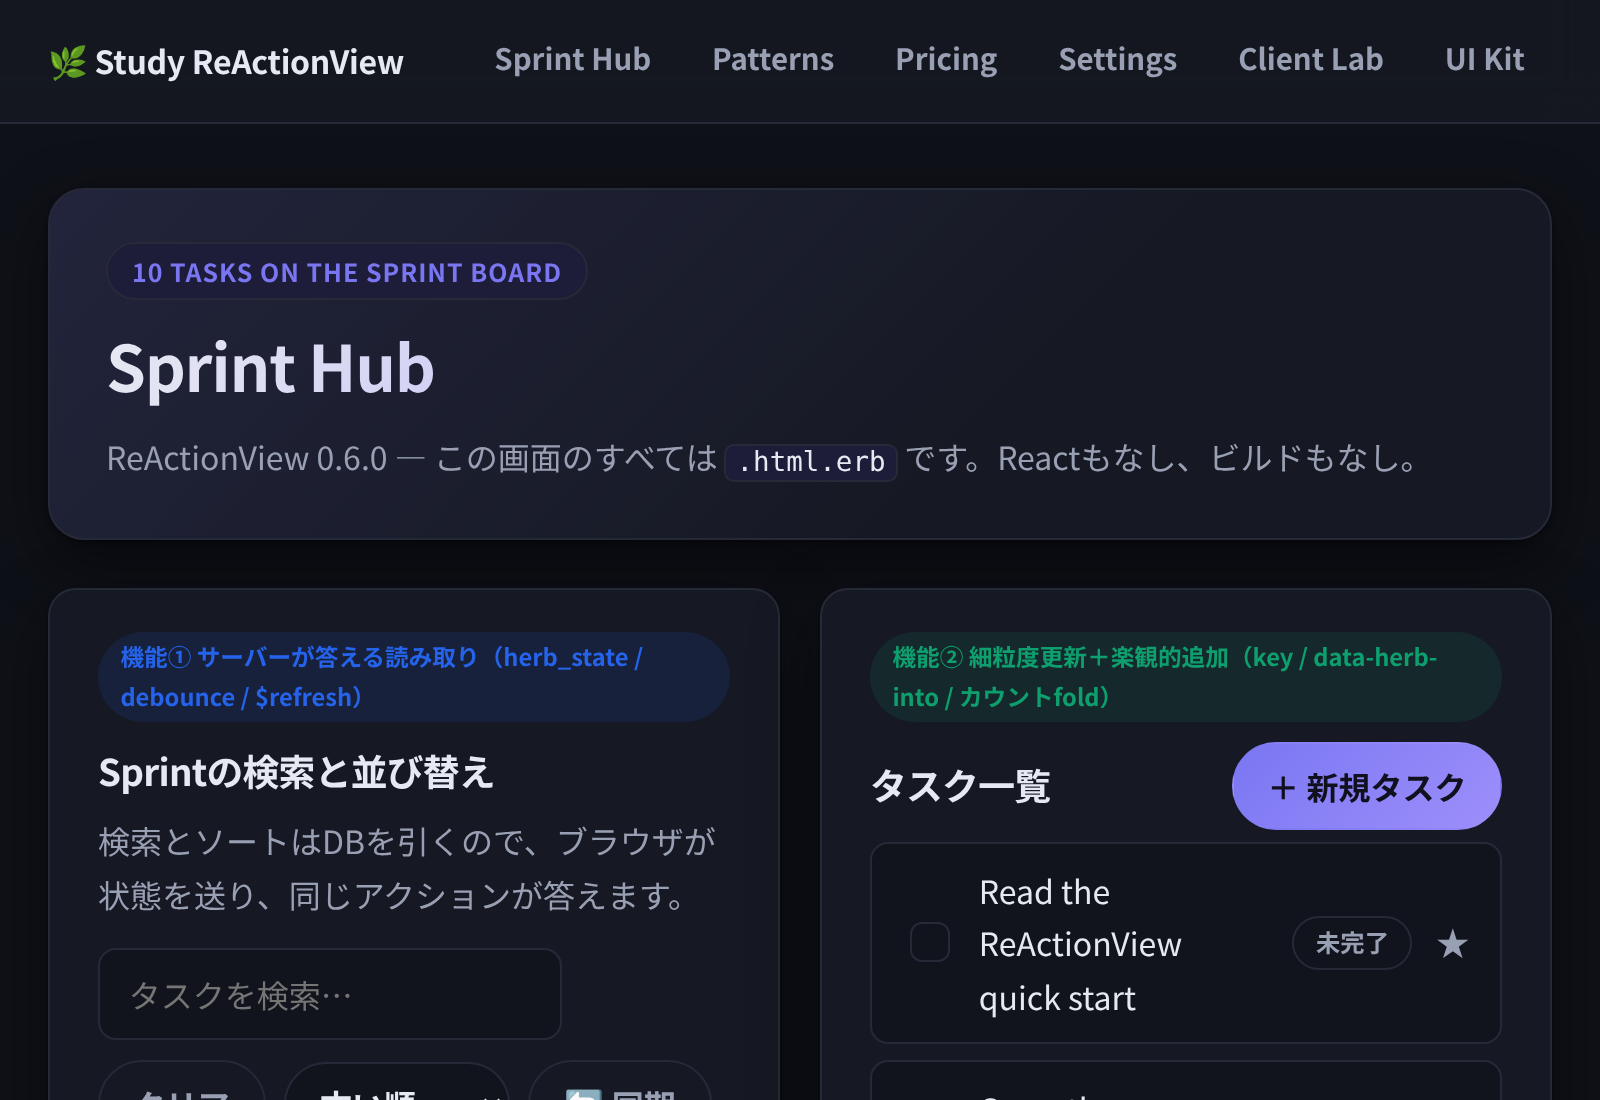
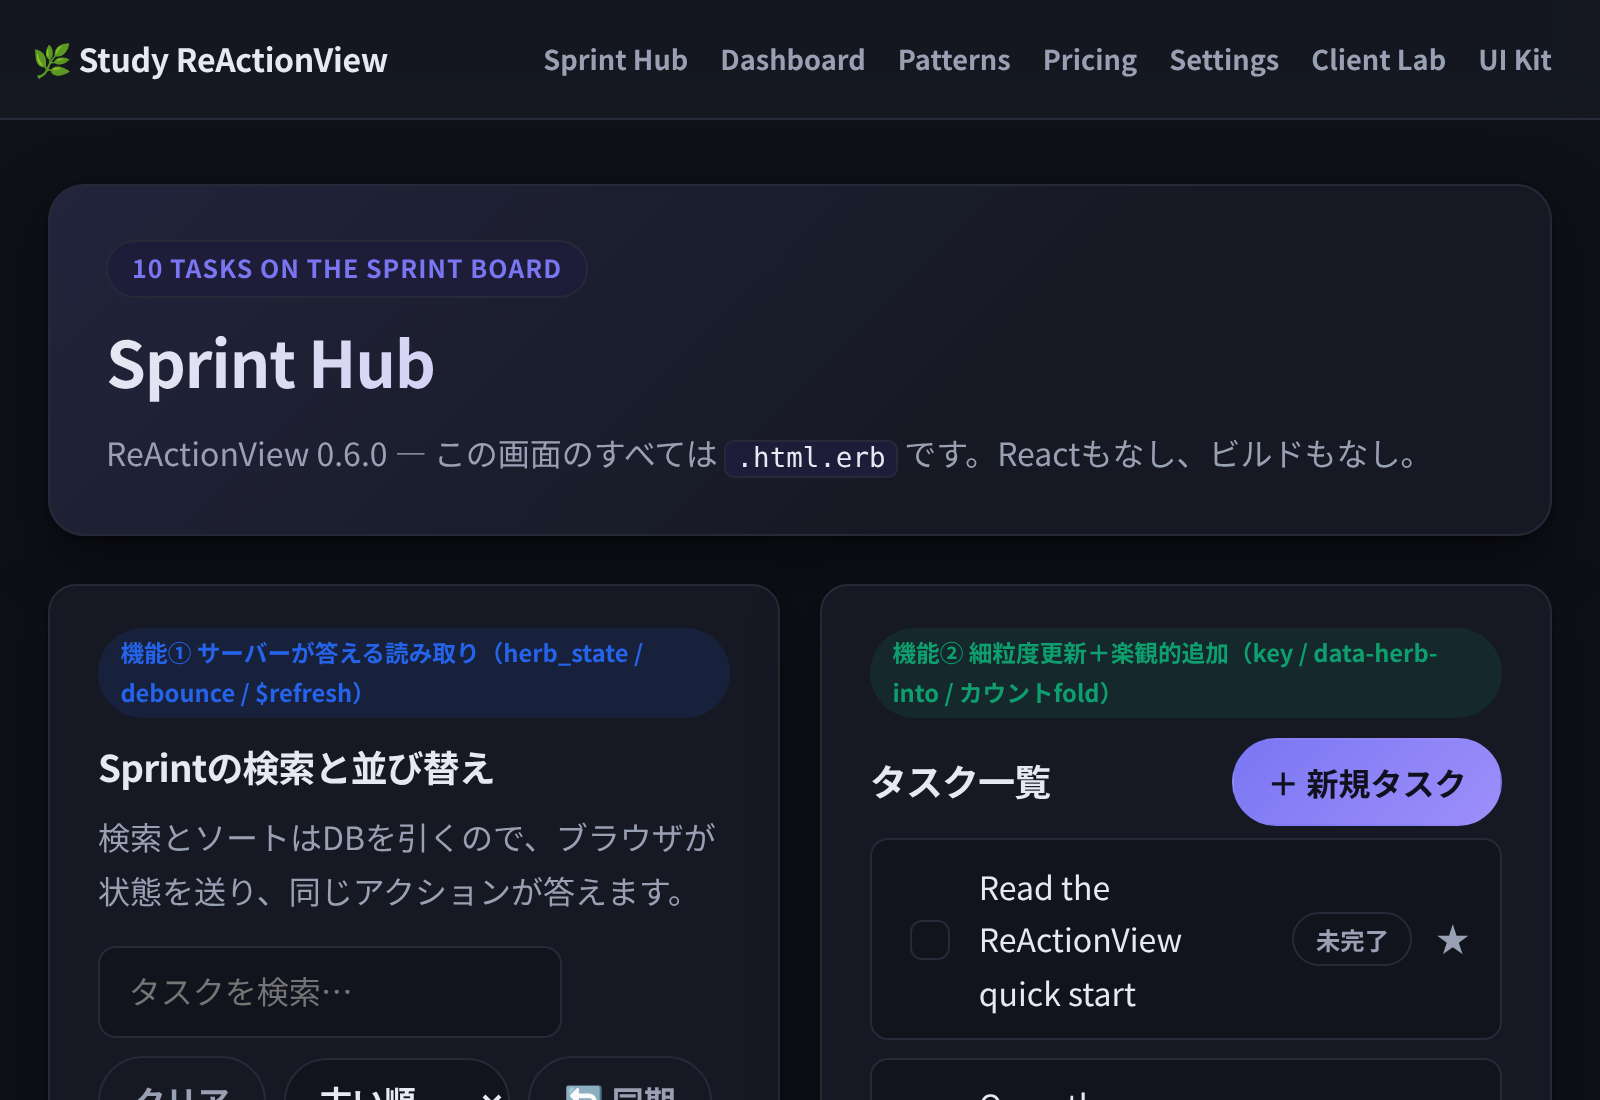
docs(dashboard): 7画面のドキュメントと7リンクナビのメディアを更新 — Dashboardを全体のショーケースに組み込むため
READMEの画面表と機能⑱〜㉑、Hotwire対比の証明マップと境界、AGENTSの実測メモを追加し、既存のナビ付きメディアを7リンクで撮り直した。LazyとFragmentの0.6.0ギャップ、Asyncのinline化、未使用partialの削除を含む。

diff --git a/test/controllers/dashboard_controller_test.rb b/test/controllers/dashboard_controller_test.rb
@@ -123,7 +123,7 @@ class DashboardFlowTest < ActionDispatch::IntegrationTest
     assert_equal "string", focus["kind"]
     assert_equal "all", focus["value"]
 
-    fragment = manifest.dig("states", "fragments").values.find { |entry| entry["on"] == ["focus"] }
+    fragment = manifest.dig("states", "fragments").values.find { |entry| entry["on"] == [ "focus" ] }
     assert fragment, "the Fragment is registered"
     assert fragment["reads"].all? { |read| read.is_a?(Integer) }
     assert_includes manifest.dig("states", "server", "reads").keys, "focus"

diff --git a/AGENTS.md b/AGENTS.md
@@ -17,6 +17,8 @@
 （docs/hotwire-comparison.md の対比5）。
 6画面目 `Settings`（`/settings`）: client mode の設定フォーム。3タブ・依存フィールド・明示 dirty・
 デモ保存を、全操作 0 往復で扱う（下の実測メモ）。
+7画面目 `Dashboard`（`/dashboard`）: client mode の遅延ダッシュボード。Async 2本・Lazy・Fragment・
+poll を1画面に載せ、0.6.0 で動く範囲と動かない範囲を実測して記録する。
 
 ## 作業規約（必ず守る）
 
@@ -241,6 +243,28 @@
   Hub / Patterns / Client Lab / Pricing の stills と Hub の 03 / 04 GIF を再撮影した。
   Settings の静止画/GIF は日本語フォントスタックで撮り、CDP の `CSS.getPlatformFontsForNode` で
   実フォントが `Noto Sans CJK JP` であることを確認した。
+
+## Dashboard 画面で実測した事実（0.6.0 / herb 0.11.1）
+
+- **`<Async>` のブロック内容は inline で書く**: ブロック応答は partial の statics を運ばず、初期ページの
+  `data-herb-dependencies` も空になるため、`render` した partial は描画されない（実測）。サマリーと
+  ハートビートは inline にした。`<Async>` はマウント直後に `Herb-Block` 付きの slots 要求を送る。
+- **`<Lazy>` は 0.6.0 でブロック要求も materialize もしない**: スクロールしても slots 要求は0で、
+  Fallback のまま（実測）。Fallback に最新3件と注記を置いて読める形にし、タグと manifest は残した。
+  Lazy の中のコレクションはブロック応答で `items` が空になるため、明示的な行で描画する。
+- **`<Fragment>` の Fallback は観測されなかった**: `focus: focus`、`on="focus"`、`server.reads` は
+  manifest に載り、focus 変更は slots 1回（910ms）で集計を 10→3 に更新する。ただし Fallback は
+  表示されない（実測）。状態読みと集計更新は動くが、Fallback の見た目は制約として扱う。
+- **`poll` は 3秒間隔**: `<Async poll="3000">` のブロックが応答後3秒で再要求される。`?slow=1` では
+  各907ms、実効約3.9秒。クライアントは `document.hidden` の間、poll を止める（実装済み）。
+- **`?slow=1` は slots だけを900ms遅らせる**: `slow_slots` を1リクエスト1回にメモ化する。初回HTMLは
+  約30ms、Async 2本は 907ms / 1812ms（サーバーが直列）、focus 910ms、poll 907ms。`slow=0` は
+  Async 11/13ms、focus 8ms。Lazy は 0 要求のため遅延の対象外。
+- **7リンクナビは 800px / 1000px で1行**: `@media (max-width: 56rem)` で header の padding、
+  nav の gap、link の padding / font-size を詰める。プローブで link の `top` が1種類であることを確認。
+  Hub / Patterns / Client Lab / Pricing / Settings の stills、Hub 03 / 04、`ui-dialog.png` を
+  7リンクで撮り直した。Dashboard の stills / GIF も日本語フォントで撮り、CDP で
+  `Noto Sans CJK JP` を確認した。
 
 ## ブラウザ実測（headless Chromium・録画環境）で確定した事実
 
